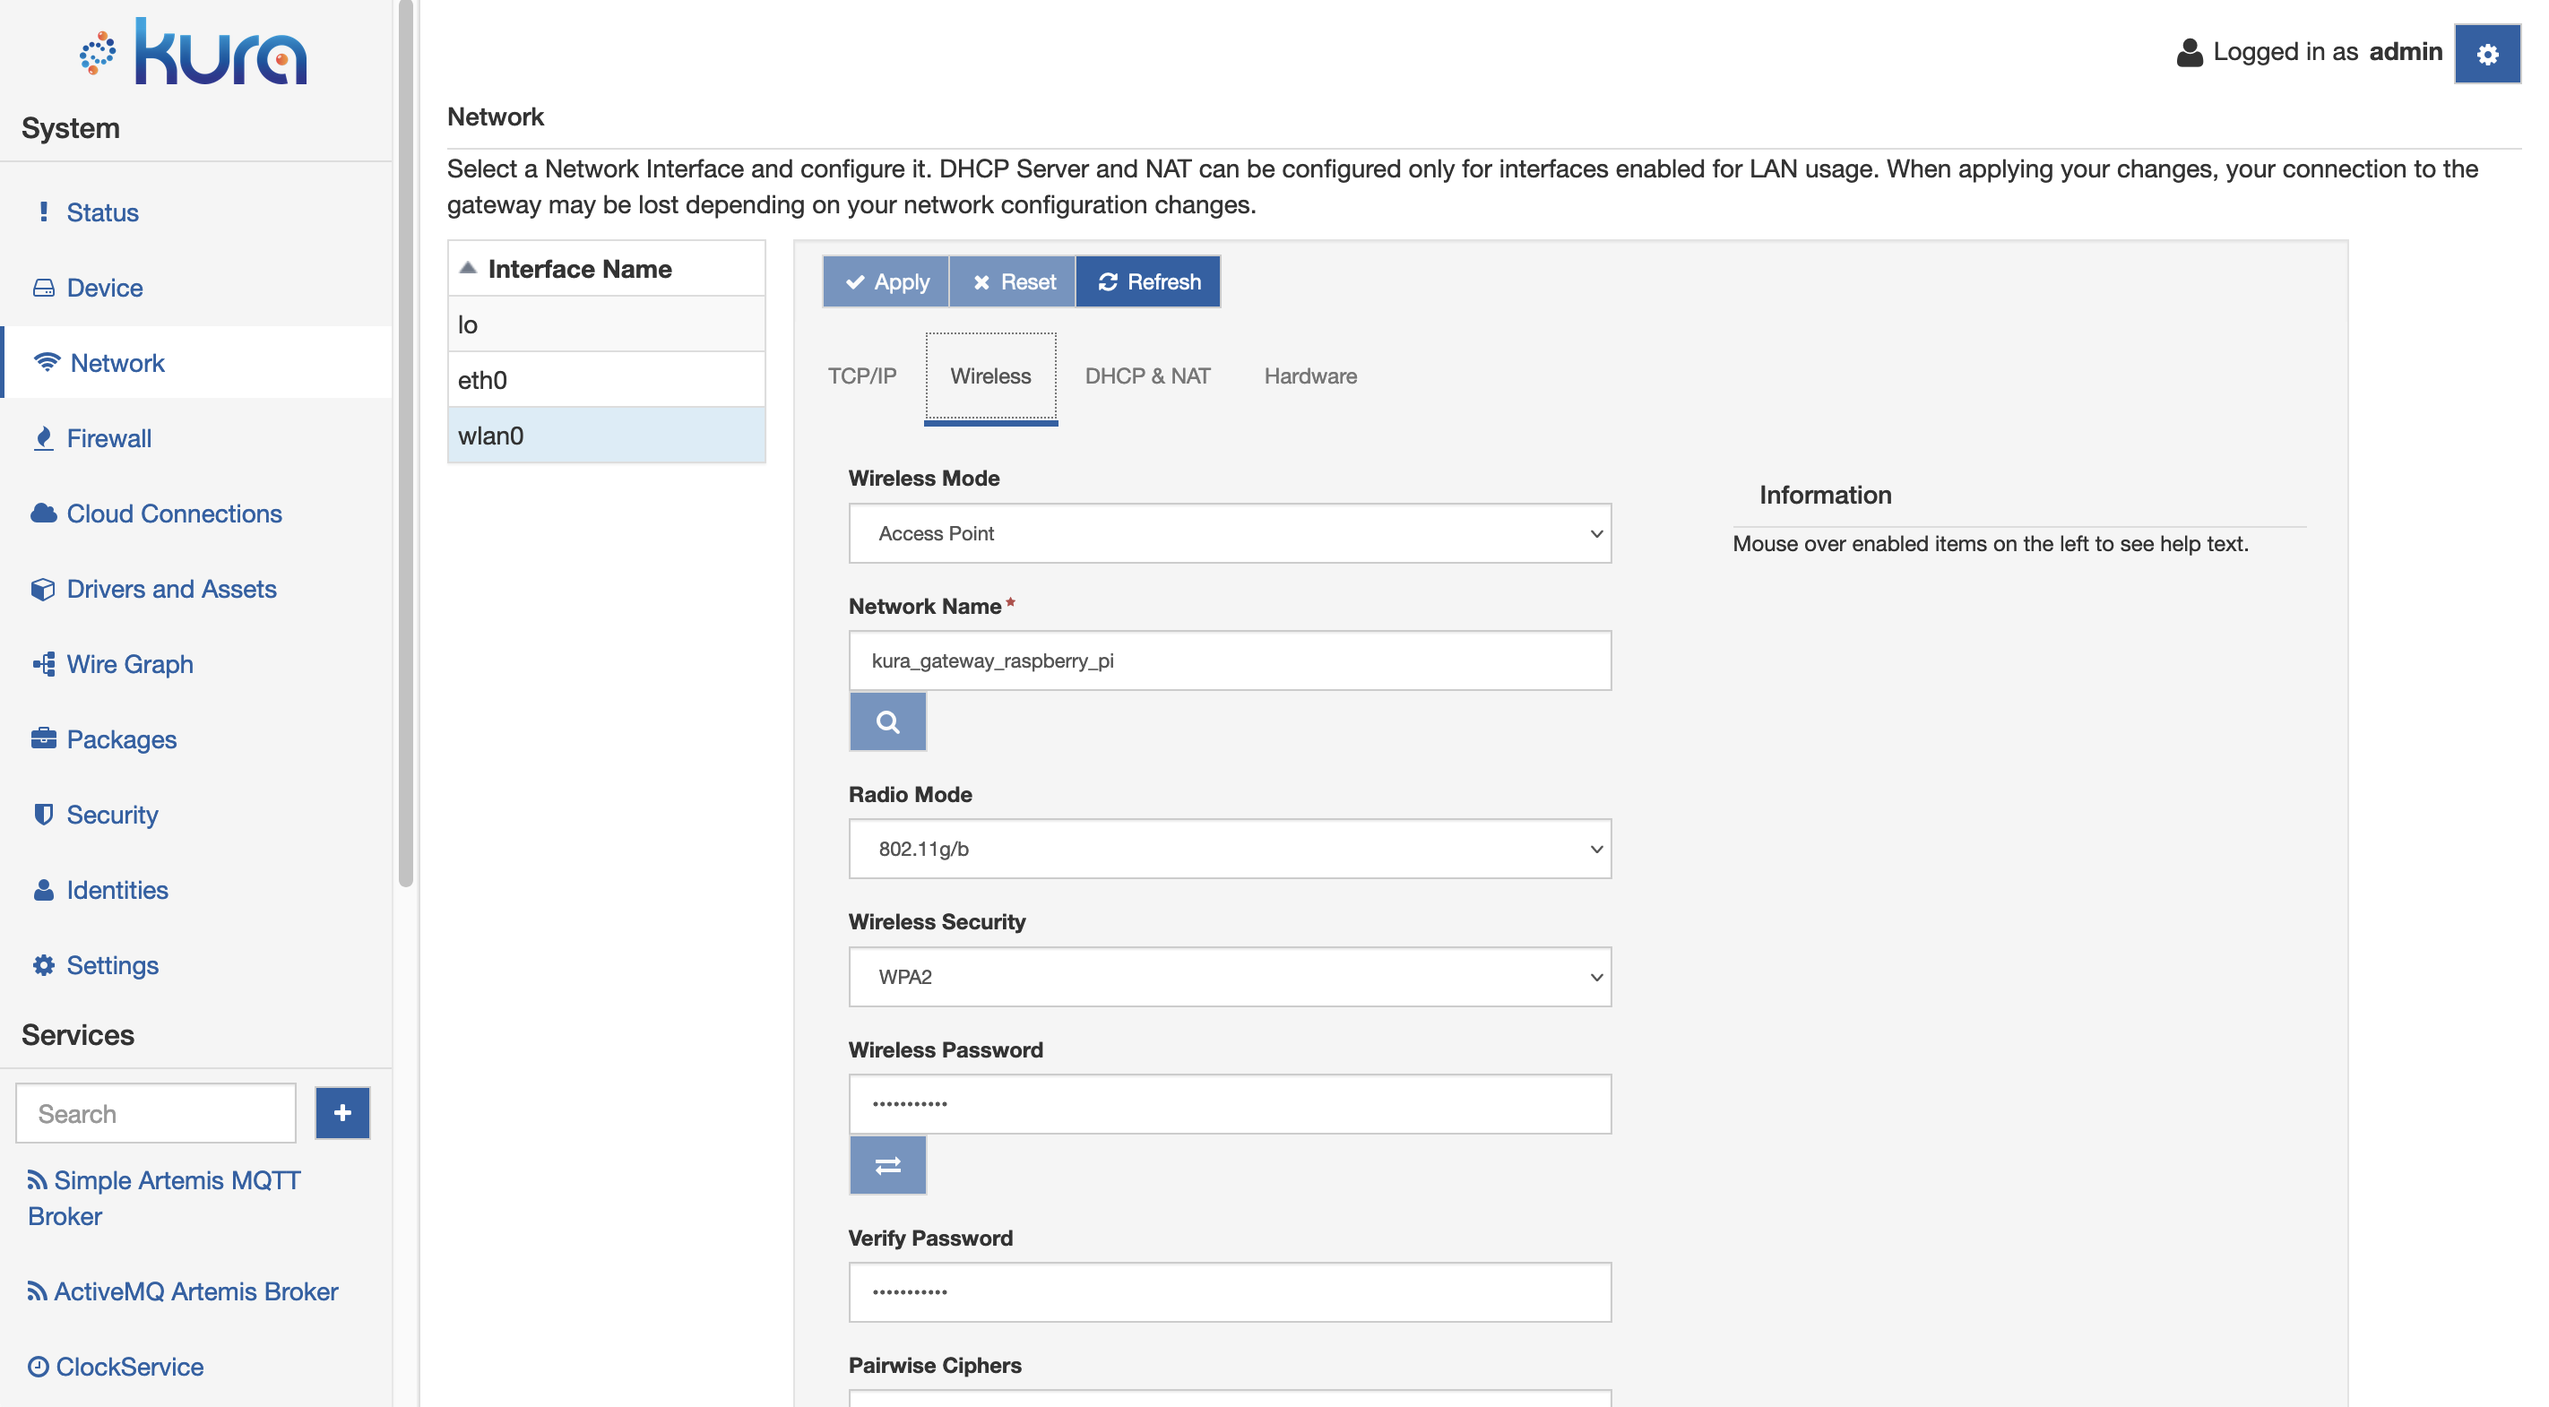
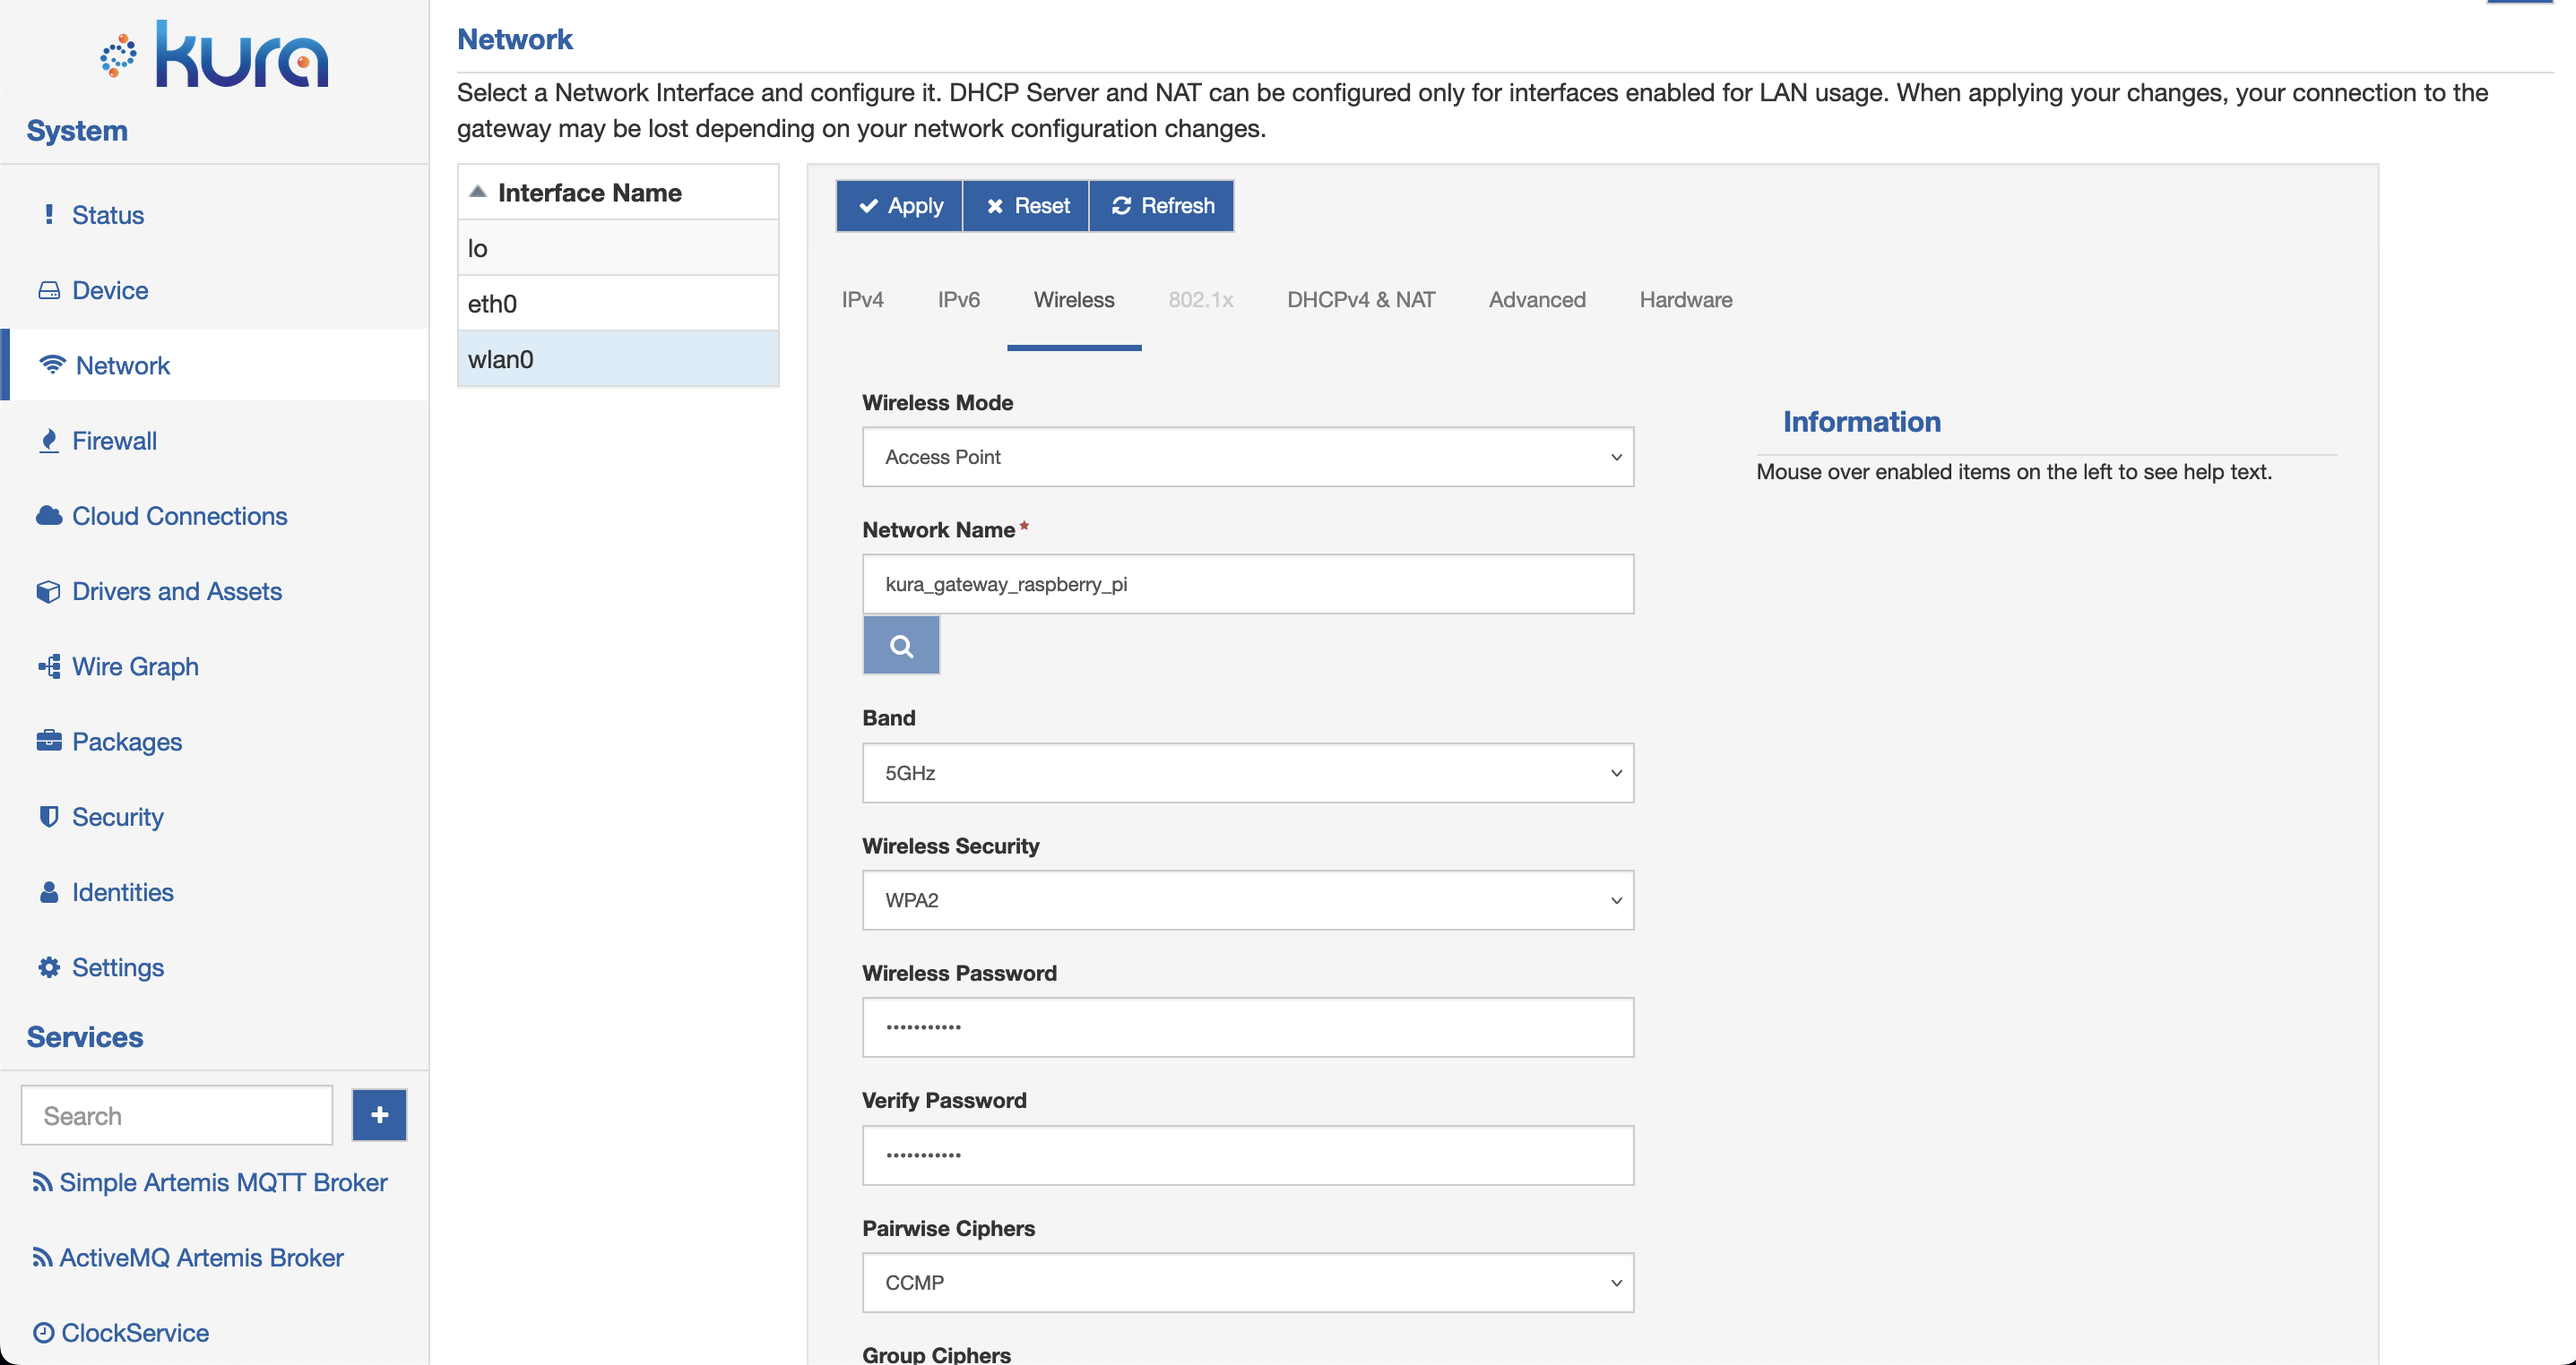
Updated wifi pages

diff --git a/docs/gateway-configuration/wifi-configuration.md b/docs/gateway-configuration/wifi-configuration.md
@@ -1,6 +1,6 @@
 # Wi-Fi Configuration
 
-From a configuration standpoint, the Wi-Fi interface (e.g., wlan0) may be viewed as an extension of Ethernet. In addition to the **TCP/IP** and **DHCP & NAT** configuration tabs, it has the **Wireless** tab that allows for the configuration of wireless settings. These configuration options are described below.
+From a configuration standpoint, the Wi-Fi interface (e.g., wlan0) may be viewed as an extension of Ethernet. In addition to the **IPv4**, **IPv6** and **DHCPv4 & NAT** configuration tabs, it has the **Wireless** tab that allows for the configuration of wireless settings. These configuration options are described below.
 
 !!! warning
     Before using wifi make sure that you have correctly set the Regulatory Domain on the gateway. You can check the current configuration using the `iw reg get` command. To set the Regulatory Domain please refer to the specific section in the Gateway Configurations.
@@ -17,19 +17,17 @@ The **Wireless** tab contains the following configuration parameters:
     - In _Access Point_ mode, this is the SSID that identifies this wireless network.
     - In _Station_ mode, this is the SSID of a wireless network to connect to.
 
-- **Radio Mode**: defines 802.11 mode.
-    - 802.11 ac/n/a (either in 2.4Ghz or 5Ghz depending on the choosen channel)
-    - 802.11n/g/b (2.4Ghz only)
-    - 802.11g/b (2.4Ghz only)
-    - 802.11b (2.4Ghz only)
-    - 802.11a (either in 2.4Ghz or 5Ghz depending on the choosen channel)
+- **Band**: defines the frequency band to use
+    - 2.4GHz: use 2.4GHz band
+    - 5GHz: use 5GHz band
+    - 2.4GHz/5GHz: use either in 2.4Ghz or 5Ghz depending on the choosen channel
 
 - **Wireless Security**: sets the security protocol for the wireless network.
     - None: No Wi-Fi security
     - WEP: Wired Equivalent Privacy
     - WPA: Wi-Fi Protected Access
     - WPA2: Wi-Fi Protected Access II
-    - WPA2/WPA3-Enterprise: Wi-Fi Protected Access II & III with 802.1x Support (Only available in station mode with [generic profiles](../getting-started/install-kura.md))
+    - WPA2/WPA3-Enterprise: Wi-Fi Protected Access II & III with 802.1x. Please see [here](./wifi-configuration-8021x.md) for further details. This fearture is available only in station mode
 
 - **Wireless Password**: sets the password for the wireless network.
     - WEP: 64-bit or 128-bit encryption key
@@ -72,7 +70,7 @@ The **Wireless** tab contains the following configuration parameters:
     - In _Access Point_ mode, sends an empty SSID in beacons and ignores probe request frames that do not specify full SSID.
     - In _Station_ mode, does not scan for the SSID before attempting to associate.
 
-- **Channels table**: allows the selection of desired channel frequencies. The availability of the desired frequency is subject to the Regdom set on the device. For a list of limitations in different countries you can consult the following page: [List of WLAN channels](https://en.wikipedia.org/wiki/List_of_WLAN_channels). Channels marked as No Irradiation and Radar Detection can be used only if DFS (Dynamic Frequency Selection) is supported by the Wi-Fi chip. 
+- **Channels list**: allows the selection of desired channel frequencies. The availability of the desired frequency is subject to the Regdom set on the device. For a list of limitations in different countries you can consult the following page: [List of WLAN channels](https://en.wikipedia.org/wiki/List_of_WLAN_channels). Channels marked as No Irradiation and Radar Detection can be used only if DFS (Dynamic Frequency Selection) is supported by the Wi-Fi chip. 
     - In _Access Point_ mode, only one channel may be selected.
     - In _Station_ mode, the list of available channels depends on the selected Radio Mode. The selected radio mode also affects the ability to select a network in the scan window (if the channel associated with the network is not enabled in the regulatory domain an error message will be shown).
 
@@ -80,7 +78,7 @@ The **Wireless** tab contains the following configuration parameters:
 
 ## Wi-Fi Station Mode Configuration
 
-In addition to the options described above, the **Wireless** configuration display provides two buttons that help to configure Wi-Fi in the _Station_ mode. These buttons are described below.
+In addition to the options described above, the **Wireless** configuration display the **Access Point Scan** button that help to configure Wi-Fi in the _Station_ mode.
 
 - **Access Point Scan**: clicking this button triggers access point scan operations. Upon a successful scan, a table containing access points within range is presented. This table contains the following information:
     - SSID
@@ -90,111 +88,4 @@ In addition to the options described above, the **Wireless** configuration displ
     - Frequency
     - Security
 
-    If you select one of these access points, respective wireless controls (i.e., _Network Name_, _Wireless Security_, and _Channel_) are filled with information obtained during the scan operation.
-
-- **Password Verification**: clicking this button triggers password verification before a full connection is established.
-
-!!! warning "Generic Profiles Access Point Scan Issue"
-    Due to a limitation in our current implementation of Access Point scanning in the generic profiles, a scan triggered while the device Wireless Mode is set as _Access Point_ will result in it reporting itself as the only reachable Access Point.
-
-    To retrieve the actual list of nearby Access Points, set your device in _Station Mode_ with a temporary configuration and trigger the scan again.
-
-## Wi-Fi Linux Configuration
-
-This section describes the changes applied by Kura at the Linux networking configuration. Please read the following note before proceeding with manual changes of the Linux networking configuration.
-
-!!! warning
-    It is **NOT** recommended performing manual editing of the Linux networking configuration files when the gateway configuration is being managed through Kura. While Linux may correctly accept manual changes, Kura may not be able to interpret the new configuration resulting in an inconsistent state.
-
-When the Wi-Fi configuration for the _Access Point_ mode is submitted, Kura generates the `/etc/hostapd.conf` file and launches the hostapd program as shown below.
-
-```shell
-hostapd:B /etc/hostapd.conf
-```
-
-```shell
-# /etc/hostapd/hostapd.conf
-
-interface=wlan0
-
-driver=nl80211
-
-# SSID to use. This will be the "name" of the accesspoint
-ssid=kura_gateway_00:E0:C7:09:35:D8
-
-# basic operational settings
-hw_mode=g
-
-wme_enabled=0
-ieee80211n=0
-
-channel=1
-
-# Logging and debugging settings: more of this in original config file
-logger_syslog=-1
-logger_syslog_level=2
-logger_stdout=-1
-logger_stdout_level=2
-dump_file=/tmp/hostapd.dump
-
-# WPA settings. We'll use stronger WPA2
-# bit0 = WPA
-# bit1 = IEEE 802.11i/RSN (WPA2) (dot11RSNAEnabled)
-wpa=2
-
-# Preshared key of between 8-63 ASCII characters.
-# If you define the key in here, make sure that the file is not readable
-# by anyone but root. Alternatively you can use a separate file for the
-# key; see original hostapd.conf for more information.
-wpa_passphrase=testKEYS
-
-# Key management algorithm. In this case, a simple pre-shared key (PSK)
-wpa_key_mgmt=WPA-PSK
-
-# The cipher suite to use. We want to use stronger CCMP cipher.
-wpa_pairwise=CCMP
-
-# Change the broadcasted/multicasted keys after this many seconds.
-wpa_group_rekey=600
-
-# Change the master key after this many seconds. Master key is used as a basis
-# (source) for the encryption keys.
-wpa_gmk_rekey=86400
-
-# Send empty SSID in beacons and ignore probe request frames that do not
-# specify full SSID, i.e., require stations to know SSID.
-# default: disabled (0)
-# 1 = send empty (length=0) SSID in beacon and ignore probe request for
-#     broadcast SSID
-# 2 = clear SSID (ASCII 0), but keep the original length (this may be required
-#     with some clients that do not support empty SSID) and ignore probe
-#     requests for broadcast SSID
-ignore_broadcast_ssid=0
-```
-
-When the Wi-Fi configuration for the _Station_ mode is submitted, Kura generates the `/etc/wpa_supplicant.conf` file and launches the `wpa_supplicant` program as shown below.
-
-```shell
-wpa_supplicant:B:D nl80211:i wlan0:c /etc/wpa_supplicant.conf
-```
-
-```shell
-# /etc/wpa_supplicant.conf
-# allow frontend (e.g., wpa_cli) to be used by all users in 'wheel' group
-ctrl_interface=/var/run/wpa_supplicant
-ctrl_interface_group=wheel
-
-# home network; allow all valid ciphers
-network={
-    mode=0
-    ssid="Eurotech-INC"
-    scan_ssid=1
-    key_mgmt=WPA-PSK
-    psk="WG4t3101"
-    proto=RSN
-    pairwise=CCMP TKIP
-    group=CCMP TKIP
-    scan_freq=2412
-    bgscan=""
-}
-```
+    If you select one of these access points, respective wireless controls (i.e., _Network Name_, _Wireless Security_, and _Channel_) are filled with information obtained during the scan operation. The _Force Wireless Network Scan_ button triggers a manual scan for available access points.

diff --git a/docs/gateway-configuration/wifi-configuration-8021x.md b/docs/gateway-configuration/wifi-configuration-8021x.md
@@ -1,5 +1,5 @@
 # Wi-Fi 802.1x Configuration
-Enterprise Wi-Fi is currently only supported on gateways running our [generic profiles](../getting-started/install-kura.md#installer-types). The following is a list of currently supported 802.1x authentication methods.
+To enable the Enterprise Wi-Fi, the **Wireless Security** property in the **Wireless** tab has to be set to _WPA2/WPA3-Enterprise_. This feature is available only if the _Wireless Mode_ is _Station Mode_. The following is a list of currently supported 802.1x authentication methods.
 
  - [TTLS-MSCHAPv2](#ttls-mschapv2)
  - [PEAP-MSCHAPv2](#peap-mschapv2)
